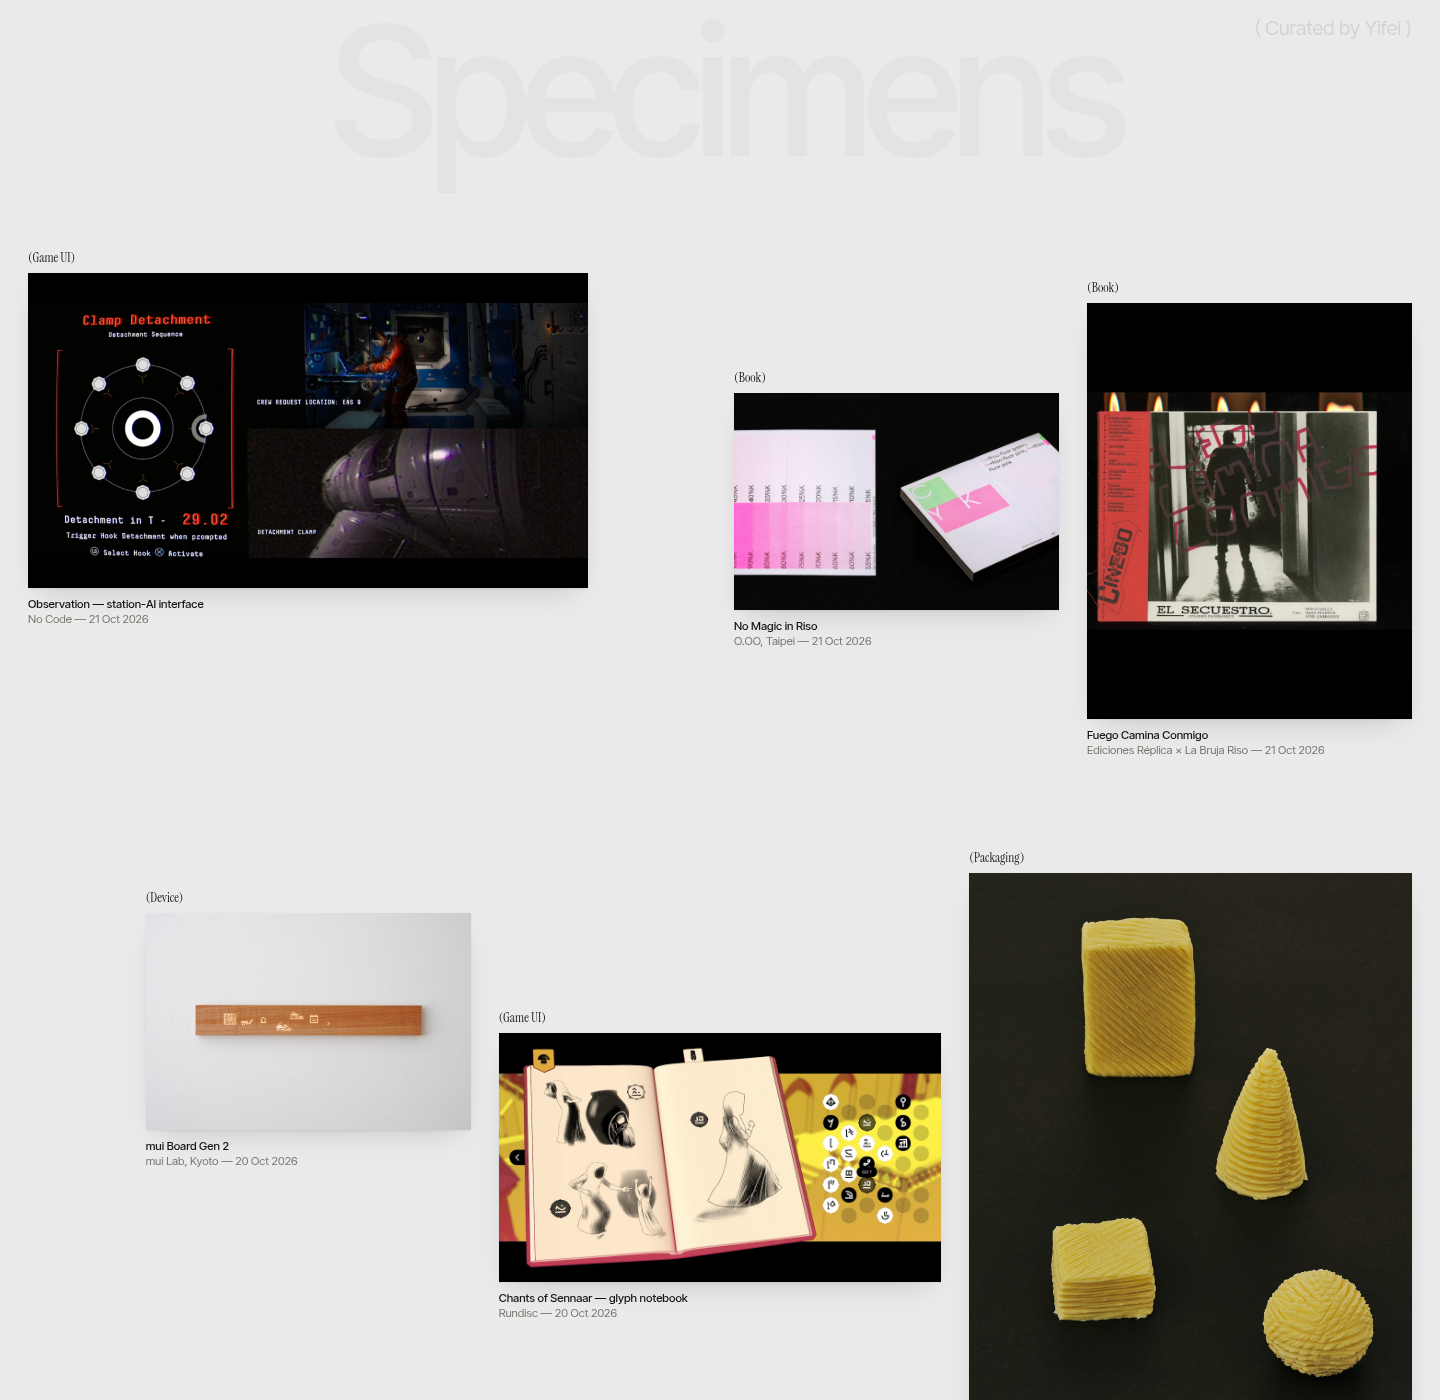
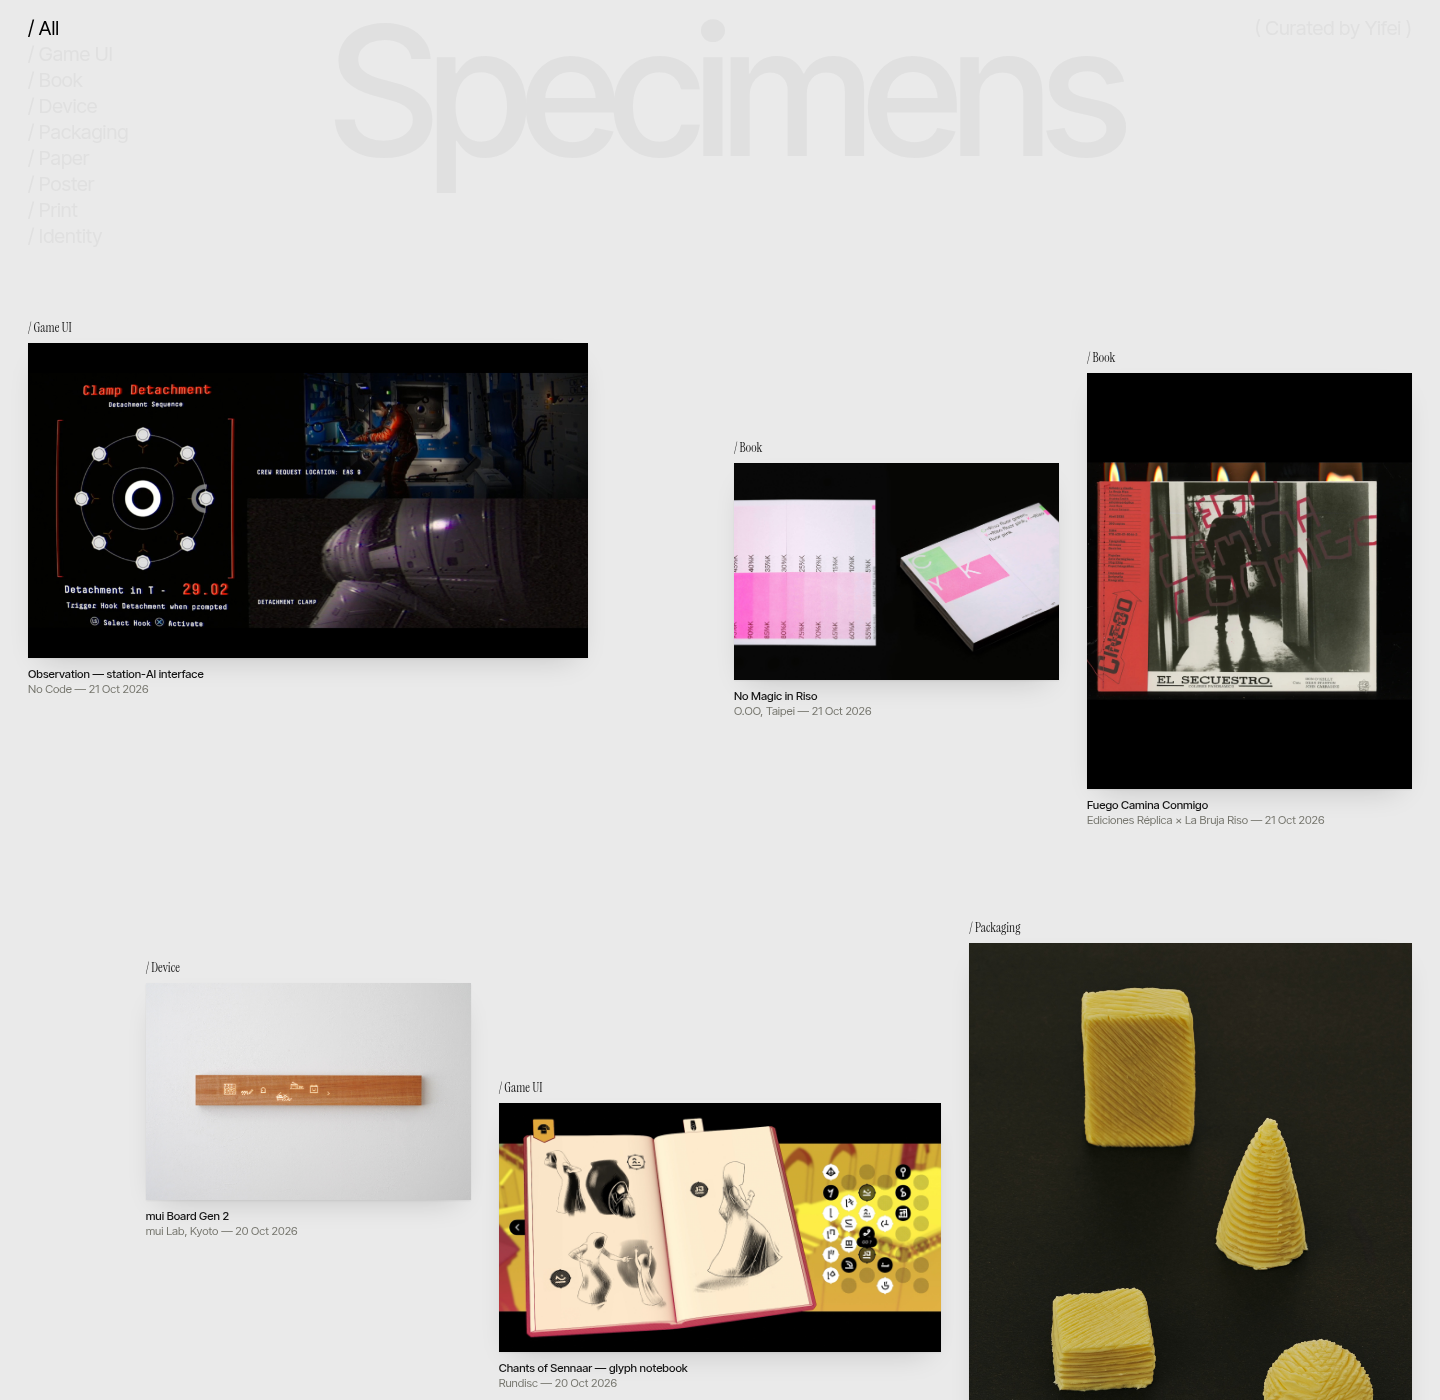
Type filter menu, '/ Type' tags, header #e0e0e0

diff --git a/index.html b/index.html
@@ -9,7 +9,7 @@ header{padding:22px 28px 0}
 .meta{display:flex;justify-content:space-between;font-size:11px;letter-spacing:.02em;text-transform:uppercase;padding-bottom:10px;border-bottom:1px solid var(--rule)}
 h1{font-weight:500;font-size:clamp(56px,11vw,180px);letter-spacing:-.055em;line-height:.86;padding:18px 0 14px;border-bottom:1px solid var(--rule)}
 .sub{display:flex;justify-content:space-between;font-family:"Instrument Serif",serif;font-size:17px;padding:10px 0;border-bottom:1px solid var(--rule)}
-.plate{position:relative;padding:80px 28px 40px;display:grid;grid-template-columns:repeat(12,1fr);column-gap:28px;row-gap:90px;align-items:start}
+.plate{position:relative;padding:150px 28px 40px;display:grid;grid-template-columns:repeat(12,1fr);column-gap:28px;row-gap:90px;align-items:start}
 .ghost{position:absolute;inset:auto 0 0 0;top:40%;text-align:center;font-family:"Instrument Serif",serif;font-style:italic;font-size:22vw;color:#16161609;pointer-events:none;line-height:1}
 .card{position:relative;display:block}
 .card img{width:100%;display:block;box-shadow:0 1px 2px #0001,0 12px 30px -14px #0003;transition:transform .4s}
@@ -23,14 +23,21 @@ h1{font-weight:500;font-size:clamp(56px,11vw,180px);letter-spacing:-.055em;line-
 footer{padding:0 28px 28px;font-size:11px;text-transform:uppercase;color:var(--mute);display:flex;justify-content:space-between}
 @media(max-width:760px){.plate{grid-template-columns:repeat(6,1fr);row-gap:56px;column-gap:16px;padding:48px 16px}.card{grid-column:span 6!important;margin:0!important}.card.s{grid-column:span 3!important}header{padding:16px}.index{margin:20px 16px}}
 header{position:sticky;top:0;z-index:5;padding:14px 28px 0;text-align:center;pointer-events:none}
-h1{font-weight:500;font-size:clamp(64px,12.5vw,205px);letter-spacing:-.055em;line-height:.86;padding:0 0 0 .055em;border:0;color:#e3e3e3;text-align:center}
-.credit{position:absolute;top:16px;right:28px;font-size:calc(clamp(56px,11vw,180px)*.126);color:#d4d4d4;font-weight:400;pointer-events:none}
+h1{font-weight:500;font-size:clamp(64px,12.5vw,205px);letter-spacing:-.055em;line-height:.86;padding:0 0 0 .055em;border:0;color:#e0e0e0;text-align:center}
+.credit{position:absolute;top:16px;right:28px;font-size:calc(clamp(56px,11vw,180px)*.126);color:#e0e0e0;font-weight:400;pointer-events:none}
 .tag{font-size:13px}
 .card{opacity:0;transform:translateY(28px);transition:opacity .9s ease,transform .9s cubic-bezier(.2,.7,.2,1)}.card.in{opacity:1;transform:none}
 @media(prefers-reduced-motion:reduce){.card{opacity:1;transform:none;transition:none}}
 .plate,.index{position:relative;z-index:6}
+.filters{position:absolute;top:16px;left:28px;display:flex;flex-direction:column;align-items:flex-start;gap:2px;font-size:calc(clamp(56px,11vw,180px)*.126);pointer-events:auto;text-align:left}
+.filters button{all:unset;cursor:pointer;color:#e0e0e0;transition:color .25s}
+.filters button:hover,.filters button.on{color:#000}
+.plate{pointer-events:none}.card{pointer-events:auto}
+.card.gone,.index a.gone{display:none}
+.card.fade{opacity:0!important;transform:translateY(16px) scale(.98)!important}
+.index a{transition:opacity .35s}.index a.fade{opacity:0}
 </style></head><body>
-<header><div class="credit">( Curated by Yifei )</div><h1>Specimens</h1>
+<header><nav class="filters" id="filters"></nav><div class="credit">( Curated by Yifei )</div><h1>Specimens</h1>
 </header>
 <main class="plate" id="plate"></main>
 <section class="index" id="index"></section>
@@ -41,10 +48,17 @@ fetch('data/items.json').then(r=>r.json()).then(items=>{
  const p=document.getElementById('plate'),ix=document.getElementById('index');
  const fmt=d=>new Date(d+'T12:00').toLocaleDateString('en-GB',{day:'2-digit',month:'short',year:'numeric'});
  items.slice().reverse().forEach((it,k)=>{const n=items.length-k,f=String(n).padStart(2,'0'),code=String.fromCharCode(65+Math.floor((n-1)/6))+'.'+(((n-1)%6)+1);
-  const [c,s,t]=L[k%L.length];const a=document.createElement('a');a.className='card'+(s<=3?' s':'');a.href=it.url;a.target='_blank';a.rel='noopener';
+  const [c,s,t]=L[k%L.length];const a=document.createElement('a');a.className='card'+(s<=3?' s':'');a.dataset.t=it.type||'';a.href=it.url;a.target='_blank';a.rel='noopener';
   a.style.cssText=`grid-column:${c}/span ${s};margin-top:${t}px`;
-  a.innerHTML=`<div class="lab"><span class="tag">${it.type?"("+it.type+")":""}</span></div><img loading="lazy" src="${it.img}" alt="${it.title}"><div class="cap"><b>${it.title}</b><span>${it.creator} — ${fmt(it.date)}</span></div>`;p.appendChild(a);
-  const r=document.createElement('a');r.href=it.url;r.target='_blank';r.rel='noopener';r.innerHTML=`<span>Fig.${f}</span><span>${it.title}</span><em>${fmt(it.date)}</em>`;ix.appendChild(r);});
+  a.innerHTML=`<div class="lab"><span class="tag">${it.type?"/ "+it.type:""}</span></div><img loading="lazy" src="${it.img}" alt="${it.title}"><div class="cap"><b>${it.title}</b><span>${it.creator} — ${fmt(it.date)}</span></div>`;p.appendChild(a);
+  const r=document.createElement('a');r.dataset.t=it.type||'';r.href=it.url;r.target='_blank';r.rel='noopener';r.innerHTML=`<span>Fig.${f}</span><span>${it.title}</span><em>${fmt(it.date)}</em>`;ix.appendChild(r);});
+ const cards=[...p.querySelectorAll('.card')],rows=[...ix.children],nav=document.getElementById('filters');
+ const layout=()=>{let k=0;cards.forEach(c=>{if(c.classList.contains('gone'))return;const [cs,sp,t]=L[k++%L.length];c.style.gridColumn=cs+'/span '+sp;c.style.marginTop=t+'px';c.classList.toggle('s',sp<=3)})};
+ const types=['All',...new Set(items.slice().reverse().map(i=>i.type).filter(Boolean))];
+ const apply=t=>{[...nav.children].forEach(b=>b.classList.toggle('on',b.dataset.t===t));const els=[...cards,...rows];
+  els.forEach(e=>e.classList.add('fade'));setTimeout(()=>{els.forEach(e=>e.classList.toggle('gone',t!=='All'&&e.dataset.t!==t));layout();
+  void p.offsetHeight;setTimeout(()=>els.forEach(e=>{if(!e.classList.contains('gone')){e.classList.remove('fade');e.classList.add('in')}}),30)},350)};
+ types.forEach(t=>{const b=document.createElement('button');b.textContent='/ '+t;b.dataset.t=t;b.onclick=()=>{apply(t);history.replaceState(null,'',t==='All'?location.pathname:'#'+encodeURIComponent(t))};nav.appendChild(b)});nav.firstChild.classList.add('on');const h=decodeURIComponent(location.hash.slice(1));if(types.includes(h))apply(h);
  const io=new IntersectionObserver(es=>es.forEach(e=>{if(e.isIntersecting){e.target.classList.add('in');io.unobserve(e.target)}}),{threshold:.12});
  document.querySelectorAll('.card').forEach(c=>io.observe(c));});
 </script></body></html>
